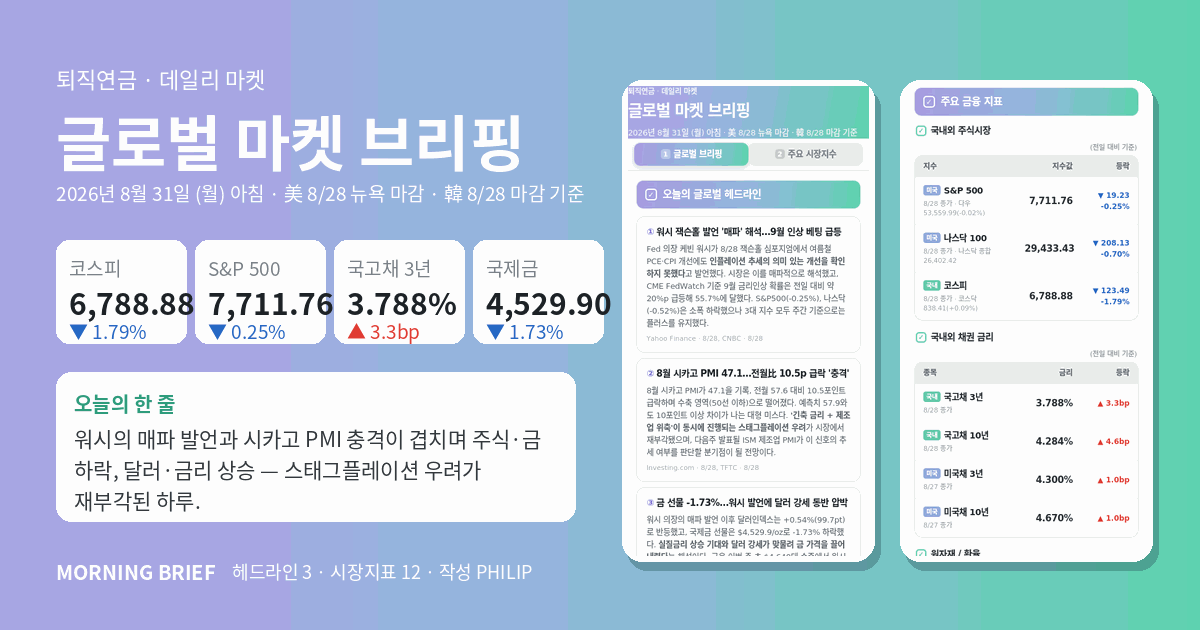
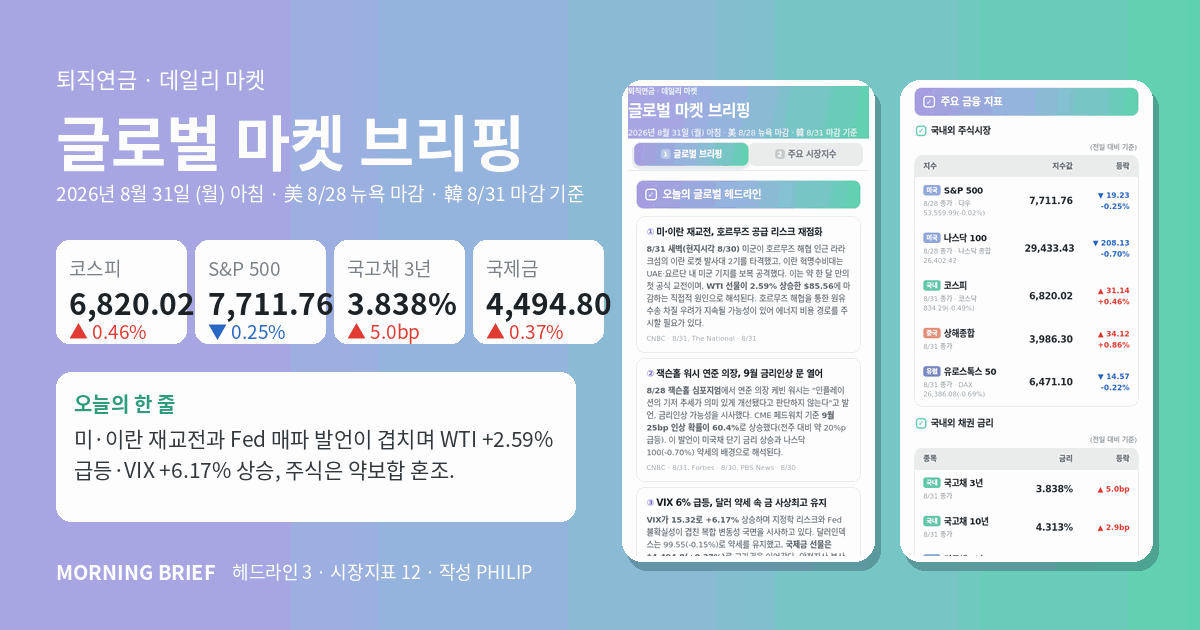
브리핑 2026-08-31 자동 배포

diff --git a/docs/2026-08-31.html b/docs/2026-08-31.html
@@ -20,7 +20,7 @@
 <meta property="og:site_name"   content="퇴직연금 데일리 마켓 브리핑">
 <meta property="og:locale"      content="ko_KR">
 <meta property="og:title"       content="글로벌 마켓 브리핑 | 2026년 8월 31일 (월) 아침">
-<meta property="og:description" content="워시 Fed 의장의 매파 발언으로 9월 금리인상 확률 55.7%로 급등. S&amp;P500 -0.25%, 코스피 -1.79%, 달러인덱스 +0.54%, 금 -1.73% 마감.">
+<meta property="og:description" content="미·이란 재교전으로 WTI +2.59% 급등, VIX +6.17% 상승. 잭슨홀 워시 연준 의장 매파 발언으로 9월 금리인상 확률 60%대 진입. 글로벌 자산배분 점검 필요.">
 <meta property="og:url"         content="https://psyops42-art.github.io/market-brief/2026-08-31.html">
 <meta property="og:image"       content="https://psyops42-art.github.io/market-brief/og-2026-08-31.png">
 <meta property="og:image:width"  content="1200">
@@ -29,10 +29,10 @@
 
 <meta name="twitter:card"        content="summary_large_image">
 <meta name="twitter:title"       content="글로벌 마켓 브리핑 | 2026년 8월 31일 (월) 아침">
-<meta name="twitter:description" content="워시 Fed 의장의 매파 발언으로 9월 금리인상 확률 55.7%로 급등. S&amp;P500 -0.25%, 코스피 -1.79%, 달러인덱스 +0.54%, 금 -1.73% 마감.">
+<meta name="twitter:description" content="미·이란 재교전으로 WTI +2.59% 급등, VIX +6.17% 상승. 잭슨홀 워시 연준 의장 매파 발언으로 9월 금리인상 확률 60%대 진입. 글로벌 자산배분 점검 필요.">
 <meta name="twitter:image"       content="https://psyops42-art.github.io/market-brief/og-2026-08-31.png">
 
-<meta name="description" content="워시 Fed 의장의 매파 발언으로 9월 금리인상 확률 55.7%로 급등. S&amp;P500 -0.25%, 코스피 -1.79%, 달러인덱스 +0.54%, 금 -1.73% 마감.">
+<meta name="description" content="미·이란 재교전으로 WTI +2.59% 급등, VIX +6.17% 상승. 잭슨홀 워시 연준 의장 매파 발언으로 9월 금리인상 확률 60%대 진입. 글로벌 자산배분 점검 필요.">
 <meta name="author" content="PHILIP">
 <title>글로벌 마켓 브리핑 | 2026년 8월 31일 (월) 아침</title>
 <style>
@@ -111,6 +111,8 @@ body{
 .row .nm .bd{display:inline-block;font-size:9.5px;font-weight:800;color:#fff;background:#B5BEC6;
   border-radius:4px;padding:1px 5px;margin-right:5px;vertical-align:2px;letter-spacing:0}
 .row .nm .bd.kr{background:#63C9A8}.row .nm .bd.us{background:#8FA8D8}
+.row .nm .bd.cn{background:#E0937C}.row .nm .bd.eu{background:#7E8BC4}
+.row .nm .bd.cr{background:#B49BE0}.row .nm .bd.fx{background:#7FB8C4}.row .nm .bd.cm{background:#C9A87C}
 .row .sub{font-size:10.5px;color:#98a1a8;margin-top:3px;line-height:1.4;letter-spacing:-.2px}
 .row .c2{width:78px;text-align:right;font-size:15px;font-weight:800;letter-spacing:-.4px}
 .row .c3{width:92px;text-align:right;font-size:11.5px;font-weight:800}
@@ -169,10 +171,10 @@ body{
 .srcbox{margin-top:14px;background:#fff;border:1px solid #E3E7E3;border-radius:13px;padding:13px 15px}
 .srcbox .qh{font-size:11.5px;font-weight:900;color:#3FB99A;margin-bottom:9px}
 .srcbox .lk{display:flex;flex-wrap:wrap;gap:6px}
-.srcbox a{display:inline-block;font-size:11.5px;font-weight:800;letter-spacing:-.4px;
+.srcbox a{flex:1 1 calc(50% - 3px);box-sizing:border-box;text-align:center;
+  font-size:11.5px;font-weight:800;letter-spacing:-.4px;
   color:#2b6b52;background:#EDF8F4;border:1px solid #A9DEC9;border-radius:8px;
-  padding:7px 10px;text-decoration:none}
-.srcbox a.iv{color:#3d4a7a;background:#EEF1FA;border-color:#BCC7E6}
+  padding:9px 6px;text-decoration:none}
 .srcbox a.ef{color:#6B57C4;background:#F6F3FD;border-color:#CDC1F1}
 .srcbox .memo{font-size:10.5px;color:#98a1a8;margin-top:8px;line-height:1.6}
 
@@ -191,7 +193,7 @@ body{
   <div class="band">
     <div class="eyebrow">퇴직연금 · 데일리 마켓</div>
     <h1 id="ttl">글로벌 마켓 브리핑</h1>
-    <div class="date">2026년 8월 31일 (월) 아침 · 美 8/28 뉴욕 마감 · 韓 8/28 마감 기준</div>
+    <div class="date">2026년 8월 31일 (월) 아침 · 美 8/28 뉴욕 마감 · 韓 8/31 마감 기준</div>
   </div>
 
   <nav class="tabs">
@@ -207,37 +209,37 @@ body{
       <div class="sec"><div class="ck">✓</div><h2>오늘의 글로벌 헤드라인</h2></div>
 
       <div class="news">
-        <div class="h"><em>①</em>워시 잭슨홀 발언 &#x27;매파&#x27; 해석…9월 인상 베팅 급등</div>
-        <div class="d">Fed 의장 케빈 워시가 8/28 잭슨홀 심포지엄에서 여름철 PCE·CPI 개선에도 <b>인플레이션 추세의 의미 있는 개선을 확인하지 못했다</b>고 발언했다. 시장은 이를 매파적으로 해석했고, CME FedWatch 기준 9월 금리인상 확률은 전일 대비 약 20%p 급등해 55.7%에 달했다. S&P500(-0.25%), 나스닥(-0.52%)은 소폭 하락했으나 3대 지수 모두 주간 기준으로는 플러스를 유지했다.</div>
-        <div class="s">Yahoo Finance · 8/28, CNBC · 8/28</div>
+        <div class="h"><em>①</em>미·이란 재교전, 호르무즈 공급 리스크 재점화</div>
+        <div class="d"><b>8/31 새벽(현지시각 8/30)</b> 미군이 호르무즈 해협 인근 라라크섬의 이란 로켓 발사대 2기를 타격했고, 이란 혁명수비대는 UAE·요르단 내 미군 기지를 보복 공격했다. 이는 약 한 달 만의 첫 공식 교전이며, <b>WTI 선물이 2.59% 상승한 $85.56</b>에 마감하는 직접적 원인으로 해석된다. 호르무즈 해협을 통한 원유 수송 차질 우려가 지속될 가능성이 있어 에너지 비용 경로를 주시할 필요가 있다.</div>
+        <div class="s">CNBC · 8/31, The National · 8/31</div>
       </div>
       <div class="news">
-        <div class="h"><em>②</em>8월 시카고 PMI 47.1…전월比 10.5p 급락 &#x27;충격&#x27;</div>
-        <div class="d">8월 시카고 PMI가 47.1을 기록, 전월 57.6 대비 10.5포인트 급락하며 수축 영역(50선 이하)으로 떨어졌다. 예측치 57.9와도 10포인트 이상 차이가 나는 대형 미스다. <b>'긴축 금리 + 제조업 위축'이 동시에 진행되는 스태그플레이션 우려</b>가 시장에서 재부각됐으며, 다음주 발표될 ISM 제조업 PMI가 이 신호의 추세 여부를 판단할 분기점이 될 전망이다.</div>
-        <div class="s">Investing.com · 8/28, TFTC · 8/28</div>
+        <div class="h"><em>②</em>잭슨홀 워시 연준 의장, 9월 금리인상 문 열어</div>
+        <div class="d"><b>8/28 잭슨홀 심포지엄</b>에서 연준 의장 케빈 워시는 "인플레이션의 기저 추세가 의미 있게 개선됐다고 판단하지 않는다"고 발언, 금리인상 가능성을 시사했다. CME 페드워치 기준 <b>9월 25bp 인상 확률이 60.4%</b>로 상승했다(전주 대비 약 20%p 급등). 이 발언이 미국채 단기 금리 상승과 나스닥 100(-0.70%) 약세의 배경으로 해석된다.</div>
+        <div class="s">CNBC · 8/31, Forbes · 8/30, PBS News · 8/30</div>
       </div>
       <div class="news">
-        <div class="h"><em>③</em>금 선물 -1.73%…워시 발언에 달러 강세 동반 압박</div>
-        <div class="d">워시 의장의 매파 발언 이후 달러인덱스는 +0.54%(99.7pt)로 반등했고, 국제금 선물은 $4,529.9/oz로 -1.73% 하락했다. <b>실질금리 상승 기대와 달러 강세가 맞물려 금 가격을 끌어내렸다</b>는 해석이다. 금은 이번 주 초 $4,640대 수준에서 워시 발언 이전부터 잭슨홀 경계 매물이 출회되는 흐름이 이어졌다.</div>
-        <div class="s">MarketPulse(OANDA) · 8/28, TradingEconomics · 8/28</div>
+        <div class="h"><em>③</em>VIX 6% 급등, 달러 약세 속 금 사상최고 유지</div>
+        <div class="d"><b>VIX가 15.32로 +6.17%</b> 상승하며 지정학 리스크와 Fed 불확실성이 겹친 복합 변동성 국면을 시사하고 있다. 달러인덱스는 99.55(-0.15%)로 약세를 유지했고, <b>국제금 선물은 $4,494.8(+0.37%)</b>로 고가권을 이어갔다. 안전자산 분산 수요가 달러 약세 속에서도 금 수요를 지지하는 흐름으로 해석된다.</div>
+        <div class="s">수집 데이터 기준 · 8/31</div>
       </div>
       <div class="news kr">
-        <div class="h">한은 기준금리 3.00%…&#x27;백투백&#x27; 인상에 국고채 금리 급등</div>
-        <div class="d">한국은행 금통위가 8/27 기준금리를 2.75%에서 <b>3.00%로 0.25%p 인상</b>했다. 전월 인상에 이은 연속(백투백) 인상이며, 금통위원 7명 중 6명이 찬성했다. 점도표에서는 총 21개 점 중 10개(47.6%)가 6개월 후 금리 3.25%를 가리켜 추가 인상 가능성이 시장에 반영됐고, 국고채 3년물(+3.3bp)·10년물(+4.6bp)이 동반 상승했다.</div>
-        <div class="s">파이낸셜뉴스 · 8/27, 헤럴드경제 · 8/27</div>
+        <div class="h">9월부터 퇴직연금 계좌로 개인투자용 국채 청약 가능</div>
+        <div class="d">재정경제부는 <b>8/27</b> DC형·IRP 퇴직연금 계좌를 통한 개인투자용 국채(10년·20년물) 매매 시스템 구축 완료를 공식 발표했다. <b>9월 9~15일 청약 기간</b> 동안 신한·하나·NH농협은행 등 3개 은행과 미래에셋·삼성 등 5개 증권사에서 투자 가능하다. 한편 <b>국고채 3년물 금리가 3.838%(+5.0bp)</b>까지 상승한 상황에서, 잭슨홀 여파로 금리 경로 불확실성이 높아진 점은 장기 국채 투자 시 유의해야 할 요소다.</div>
+        <div class="s">한국경제 · 8/27, 이즈보험뉴스 · 8/27, 수집 데이터 기준 · 8/31</div>
       </div>
 
       <div class="sec" style="margin-top:20px"><div class="ck">✓</div><h2>투자마인드</h2></div>
 
       <div class="mind">
         <div class="n">MINDSET 01</div>
-        <div class="t">지금 시장: &#x27;금리 재인상 우려 + 제조업 위축&#x27; 복합 국면</div>
-        <div class="b">미국 Fed의 추가 인상 가능성과 제조업 지표 부진이 동시에 부각되는 국면이다. 주식은 하방 압력, 채권은 단기물 중심으로 금리 상승 압박을 받고 있다. <b>자산배분 언어로 보면 성장·방어 자산 모두 단기 변동성이 높아진 구간</b>으로, 특정 자산군에 쏠림을 피하고 분산 원칙을 재확인할 시점이다.</div>
+        <div class="t">오늘 시장 국면: 복합 충격의 동시 작동</div>
+        <div class="b">지정학(미·이란 재교전)·통화정책(워시 매파 발언)·변동성(VIX +6.17%) 세 가지 충격이 동시에 작동하고 있다. 주식은 약보합, 원자재는 급등, 채권 금리는 상승 압력을 받는 국면으로, 단일 자산에 집중된 포트폴리오일수록 노출 위험이 높아지는 시장 환경이다. 글로벌 자산배분 전략 관점에서는 자산 간 상관관계 변화를 점검하는 계기로 삼을 수 있다.</div>
       </div>
       <div class="mind">
         <div class="n">MINDSET 02</div>
-        <div class="t">Core(TDF)가 흔들림 방어, Satellite(ETF)는 기회 탐색</div>
-        <div class="b">TDF(Core)는 생애주기에 따라 주식·채권 비중이 자동 조정되므로, 금리 불확실성 구간에서 <b>별도 리밸런싱 없이도 위험 완충 역할</b>을 한다. ETF(Satellite)는 시장 국면에 따라 섹터·지역을 조절할 수 있는 기동성을 제공한다. 두 축이 맡은 역할이 다르기 때문에, 어느 한쪽의 단기 성과만으로 전략 전체를 평가하는 것은 적절하지 않다.</div>
+        <div class="t">Core(TDF)·Satellite(ETF): 역할 분담이 흔들림 없이 작동하는 시기</div>
+        <div class="b"><b>Core인 TDF</b>는 생애주기 기반 자동 리밸런싱으로 변동성 충격을 흡수하며 장기 방향성을 유지하는 역할을 한다. <b>Satellite인 ETF</b>는 원자재·에너지 등 특정 테마에 대한 단기 익스포저 조정에 활용할 수 있으나, 전체 비중의 30~70% 이내라는 원칙을 일관되게 유지하는 것이 중요하다. 오늘처럼 복합 충격이 오는 날일수록 Core의 자동화된 분산 기능이 퇴직연금의 안전판 역할을 한다.</div>
         <div class="cs">
           <div class="box core"><div class="l">핵심자산 Core</div><div class="v">TDF 30~50%</div></div>
           <div class="plus">+</div>
@@ -246,15 +248,15 @@ body{
       </div>
       <div class="mind">
         <div class="n">MINDSET 03</div>
-        <div class="t">변동성은 장기투자의 적이 아닌 동반자</div>
-        <div class="b">VIX 14.43은 절대적으로 낮은 수준이며, 이번 하락은 단기 이벤트(잭슨홀·금통위)에 따른 반응으로 해석된다. <b>퇴직연금 적립금은 매월 정기적으로 납입되므로, 변동 구간은 평균 매입단가를 낮추는 기회</b>가 될 수 있다. 은퇴 시점까지 남은 기간이 길수록 단기 낙폭보다 장기 복리 효과에 집중하는 것이 원칙에 부합한다.</div>
+        <div class="t">장기투자 원칙: 변동성은 리스크가 아니라 과정이다</div>
+        <div class="b">VIX 상승과 지정학 이벤트는 불쾌하지만, 장기 자산배분 포트폴리오에서 이러한 변동성은 가격 평균화 효과(Cost Averaging)를 만드는 과정으로 해석될 수 있다. 퇴직연금은 10~30년의 시간 지평을 가진 자산이므로, 단기 시장 노이즈에 반응한 포트폴리오 전환은 오히려 장기 복리 수익을 훼손할 가능성이 있다. 전략의 일관성을 지키는 것 자체가 퇴직연금 운용의 핵심 역량이다.</div>
       </div>
 
       <div class="quote">
         <div class="qh">그대로 쓰는 정리 문장</div>
-        <p>지난 금요일 미국 Fed 의장이 잭슨홀에서 인플레이션 개선이 충분하지 않다고 발언하면서 9월 금리인상 기대가 높아졌고, 주식은 소폭 하락, 달러와 금리는 상승하는 흐름이 나타났습니다.</p>
-        <p>국내에서는 한국은행이 8월 27일 기준금리를 3.00%로 인상했으며, 점도표 상 금통위원 절반 가까이가 6개월 내 3.25%를 전망해 추가 긴축 가능성을 열어두고 있습니다.</p>
-        <p>이런 변동성 구간일수록 TDF 중심의 Core 전략이 자동으로 위험을 관리해주고 있음을 기억하시고, 단기 등락보다 장기 적립의 방향성을 유지하는 것이 퇴직연금 운용의 핵심입니다.</p>
+        <p>이번 주 시장의 핵심 변수는 미·이란 재교전으로 인한 원유 공급 불확실성과, 잭슨홀에서 나온 연준 의장의 매파적 발언입니다. 두 가지 모두 단기 변동성을 높이는 요인이지만, 장기 자산배분 전략의 방향을 바꿀 사건인지는 아직 판단하기 이릅니다.</p>
+        <p>퇴직연금 포트폴리오는 Core인 TDF가 자동으로 리밸런싱을 수행하고 있기 때문에, 오늘처럼 주식·채권·원자재가 동시에 흔들리는 국면에서도 전략 전체가 무너지는 구조는 아닙니다. 지금 중요한 것은 충격에 반응해 구조를 바꾸는 것이 아니라, 설계된 원칙대로 유지하는 것입니다.</p>
+        <p>9월부터 퇴직연금 계좌로 개인투자용 국채 청약이 가능해집니다. 다만 현재 국고채 금리가 상승 압력을 받고 있는 상황이므로, 금리 경로를 확인하면서 만기와 비중을 신중하게 검토하시길 권고드립니다.</p>
       </div>
 
       <div class="note">
@@ -281,8 +283,16 @@ body{
           <div class="c2">29,433.43</div><div class="c3 dn">▼ 208.13<br>-0.70%</div>
         </div>
         <div class="row">
-          <div class="c1"><div class="nm"><span class="bd kr">국내</span>코스피</div><div class="sub">8/28 종가 · 코스닥 838.41(+0.09%)</div></div>
-          <div class="c2">6,788.88</div><div class="c3 dn">▼ 123.49<br>-1.79%</div>
+          <div class="c1"><div class="nm"><span class="bd kr">국내</span>코스피</div><div class="sub">8/31 종가 · 코스닥 834.29(-0.49%)</div></div>
+          <div class="c2">6,820.02</div><div class="c3 up">▲ 31.14<br>+0.46%</div>
+        </div>
+        <div class="row">
+          <div class="c1"><div class="nm"><span class="bd cn">중국</span>상해종합</div><div class="sub">8/31 종가</div></div>
+          <div class="c2">3,986.30</div><div class="c3 up">▲ 34.12<br>+0.86%</div>
+        </div>
+        <div class="row">
+          <div class="c1"><div class="nm"><span class="bd eu">유럽</span>유로스톡스 50</div><div class="sub">8/31 종가 · DAX 26,386.08(-0.69%)</div></div>
+          <div class="c2">6,471.10</div><div class="c3 dn">▼ 14.57<br>-0.22%</div>
         </div>
       </div>
 
@@ -291,12 +301,12 @@ body{
       <div class="tbl">
         <div class="th"><div class="c1">종목</div><div class="c2">금리</div><div class="c3">등락</div></div>
         <div class="row">
-          <div class="c1"><div class="nm"><span class="bd kr">국내</span>국고채 3년</div><div class="sub">8/28 종가</div></div>
-          <div class="c2">3.788%</div><div class="c3 up">▲ 3.3bp</div>
+          <div class="c1"><div class="nm"><span class="bd kr">국내</span>국고채 3년</div><div class="sub">8/31 종가</div></div>
+          <div class="c2">3.838%</div><div class="c3 up">▲ 5.0bp</div>
         </div>
         <div class="row">
-          <div class="c1"><div class="nm"><span class="bd kr">국내</span>국고채 10년</div><div class="sub">8/28 종가</div></div>
-          <div class="c2">4.284%</div><div class="c3 up">▲ 4.6bp</div>
+          <div class="c1"><div class="nm"><span class="bd kr">국내</span>국고채 10년</div><div class="sub">8/31 종가</div></div>
+          <div class="c2">4.313%</div><div class="c3 up">▲ 2.9bp</div>
         </div>
         <div class="row">
           <div class="c1"><div class="nm"><span class="bd us">미국</span>미국채 3년</div><div class="sub">8/27 종가</div></div>
@@ -313,50 +323,53 @@ body{
       <div class="tbl">
         <div class="th"><div class="c1">지표</div><div class="c2">가격</div><div class="c3">등락</div></div>
         <div class="row">
-          <div class="c1"><div class="nm">달러인덱스 (pt)</div><div class="sub">8/28 종가</div></div>
-          <div class="c2">99.70</div><div class="c3 up">▲ 0.54<br>+0.54%</div>
+          <div class="c1"><div class="nm"><span class="bd fx">환율</span>달러인덱스 (pt)</div><div class="sub">8/31 종가</div></div>
+          <div class="c2">99.55</div><div class="c3 dn">▼ 0.15<br>-0.15%</div>
         </div>
         <div class="row">
-          <div class="c1"><div class="nm">달러/원 (USD/KRW)</div><div class="sub">8/28 종가</div></div>
-          <div class="c2">1,380.45</div><div class="c3 dn">▼ 3.04<br>-0.22%</div>
+          <div class="c1"><div class="nm"><span class="bd fx">환율</span>달러/원 (USD/KRW)</div><div class="sub">8/31 종가</div></div>
+          <div class="c2">1,368.56</div><div class="c3 dn">▼ 11.89<br>-0.86%</div>
         </div>
         <div class="row">
-          <div class="c1"><div class="nm">국제금 ($/oz, 선물)</div><div class="sub">8/28 종가</div></div>
-          <div class="c2">4,529.90</div><div class="c3 dn">▼ 79.80<br>-1.73%</div>
+          <div class="c1"><div class="nm"><span class="bd cm">원자재</span>국제금 ($/oz, 선물)</div><div class="sub">8/31 종가</div></div>
+          <div class="c2">4,494.80</div><div class="c3 up">▲ 16.70<br>+0.37%</div>
         </div>
         <div class="row">
-          <div class="c1"><div class="nm">유가 WTI ($/bbl, 선물)</div><div class="sub">8/28 종가 · 브렌트 $88.10</div></div>
-          <div class="c2">83.40</div><div class="c3 dn">▼ 0.13<br>-0.16%</div>
+          <div class="c1"><div class="nm"><span class="bd cm">원자재</span>유가 WTI ($/bbl, 선물)</div><div class="sub">8/31 종가 · 브렌트 $88.11</div></div>
+          <div class="c2">85.56</div><div class="c3 up">▲ 2.16<br>+2.59%</div>
+        </div>
+        <div class="row">
+          <div class="c1"><div class="nm"><span class="bd cr">가상자산</span>비트코인 (BTC/USD)</div><div class="sub">8/31 종가 · 24시간 거래</div></div>
+          <div class="c2">78,004.80</div><div class="c3 up">▲ 174.51<br>+0.22%</div>
         </div>
       </div>
 
       <div class="sec"><div class="ck">✓</div><h2>오늘의 한 줄</h2></div>
 
       <div class="oneline">
-        <p><span class="k">시장</span> 워시의 매파 발언과 시카고 PMI 충격이 겹치며 주식·금 하락, 달러·금리 상승 — 스태그플레이션 우려가 재부각된 하루.</p>
-        <p><span class="k">연금</span> 한·미 동시 긴축 국면, TDF의 자동 리밸런싱 기능이 가장 돋보이는 시점이다.</p>
+        <p><span class="k">시장</span> 미·이란 재교전과 Fed 매파 발언이 겹치며 WTI +2.59% 급등·VIX +6.17% 상승, 주식은 약보합 혼조.</p>
+        <p><span class="k">연금</span> 복합 충격 국면일수록 Core(TDF)의 자동 분산 기능이 퇴직연금의 실질적 방어선임을 확인하는 시기다.</p>
       </div>
 
       <div class="nextbox">
-        <div class="qh">이벤트와 일정 체크포인트</div>
-        <p>미국 ISM 제조업 PMI 발표(9/2, 확인 필요) · 미국 8월 고용보고서(9/5, 확인 필요) · 한국 소비자물가 발표(9/2 예정, 확인 필요) · FOMC 9월 회의(9/16~17, 확인 필요)</p>
+        <div class="qh">이번 주 남은 체크포인트</div>
+        <p>9/9~9/15 퇴직연금형 개인투자용 국채 1차 청약 · 9/15~9/16 FOMC 9월 금리 결정 · 9월 초 미국 8월 고용보고서(Nonfarm Payrolls) 발표 · 한국은행 금통위 일정 확인 필요(확인 필요)</p>
       </div>
 
       <div class="srcbox">
         <div class="qh">시세 직접 조회</div>
         <div class="lk">
-          <a href="https://finance.naver.com/sise/" target="_blank" rel="noopener">네이버 국내증시</a>
-          <a href="https://finance.naver.com/world/" target="_blank" rel="noopener">네이버 해외증시</a>
-          <a href="https://finance.naver.com/marketindex/" target="_blank" rel="noopener">네이버 시장지표</a>
-          <a class="iv" href="https://kr.investing.com/rates-bonds/world-government-bonds" target="_blank" rel="noopener">국채금리</a>
+          <a href="https://m.stock.naver.com/domestic" target="_blank" rel="noopener">네이버 국내증시</a>
+          <a href="https://m.stock.naver.com/worldstock" target="_blank" rel="noopener">네이버 해외증시</a>
+          <a href="https://m.stock.naver.com/marketindex" target="_blank" rel="noopener">네이버 시장지표</a>
           <a class="ef" href="https://m.funetf.co.kr/" target="_blank" rel="noopener">ETF 조회</a>
         </div>
-        <div class="memo">환율·유가·금·국고채는 네이버페이증권 시장지표에서, 해외지수는 해외증시에서 실시간 확인이 가능합니다. ETF 수익률·순자산은 FunETF에서 조회하세요.</div>
+        <div class="memo">모바일 네이버페이증권으로 연결됩니다. 환율·유가·금·국고채는 시장지표에서, 상해종합·유로스톡스50은 해외증시에서 확인하세요. ETF 수익률·순자산은 FunETF에서 조회합니다.</div>
       </div>
 
       <div class="note">
         ※ 지수·환율·원자재는 Yahoo Finance, 미국채는 FRED, 국고채는 한국은행 ECOS 자료를 자동 수집한 값입니다. 항목별 기준일은 각 행에 표기했습니다.<br>
-        ※ 금·유가는 선물 기준이며 현물과 차이가 있을 수 있습니다.<br>
+        ※ 금·유가는 선물 기준이며 현물과 차이가 있을 수 있습니다. 비트코인은 24시간 거래되어 주식시장 마감 시점과 기준이 다릅니다.<br>
 
         ※ 본 자료는 시장 정보 제공을 목적으로 작성되었으며, 특정 상품의 매매를 권유하지 않습니다.<br>
         ※ 실적배당형 상품의 수익률은 과거 실적으로 미래 수익을 보장하지 않으며, 운용실적에 따라 원금손실이 발생할 수 있고 그 손실은 가입자에게 귀속됩니다.

diff --git a/docs/index.html b/docs/index.html
@@ -37,13 +37,13 @@ a.card.new{border:1.5px solid #63D3B2;background:#F4FBF8}
   <div class="band">
     <div class="e">퇴직연금 · 데일리 마켓</div>
     <h1>브리핑 아카이브</h1>
-    <div class="d">매일 아침 금융시장 정리 · 최근 업데이트 2026.08.30</div>
+    <div class="d">매일 아침 금융시장 정리 · 최근 업데이트 2026.08.31</div>
   </div>
   <div class="sheet">
     <a class="card new" href="2026-08-31.html">
       <div class="dt">최신</div>
       <div class="tt">글로벌 마켓 브리핑 | 2026년 8월 31일 (월) 아침</div>
-      <div class="ln">워시의 매파 발언과 시카고 PMI 충격이 겹치며 주식·금 하락, 달러·금리 상승 — 스태그플레이션 우려가 재부각된 하루.</div>
+      <div class="ln">미·이란 재교전과 Fed 매파 발언이 겹치며 WTI +2.59% 급등·VIX +6.17% 상승, 주식은 약보합 혼조.</div>
       <div class="go">브리핑 열기 →</div>
     </a>
     <a class="card" href="2026-08-30.html">
